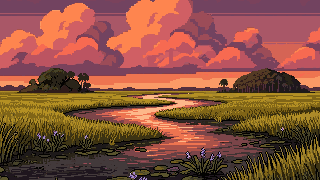
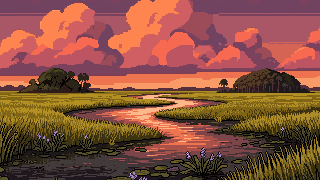
Support contact goblininksupport@gmail.com on the Terms and Refund Policy; landing fixes: alligator stays behind flowers and grasses, ripples in perspective, cloud artifacts redrawn, stray yellow and grey pixels removed

diff --git a/tools/remaster_landing.js b/tools/remaster_landing.js
@@ -21,12 +21,18 @@ const SCENES = {
     w: 320, h: 180,
     horizon: 93,   // the grass line: loose pixels are cleaned above it
     skyBottom: 82, // rows above this are sky (they drift); below is the distant treeline and the grass
+    // flat rectangular patches in the clouds to redraw as billows: [x0, y0, x1, y1, radius, passes]
+    // single pixels to correct by hand: [x, y, colour] ('auto' = the colour most of its neighbours have)
+    pixelFix: [[188, 93, 'auto'], [226, 79, '#fa9a66'], [227, 82, '#fa9a66'], // a speck in the horizon grass; yellow strays off the lone tree
+      [78, 77, 'auto'], [70, 78, 'auto'], [80, 84, 'auto'], [82, 87, 'auto'], [85, 87, 'auto']], // grey specks in the haze under the clouds
+    cloudFix: [[140, 42, 192, 70, 4, 4], [94, 16, 118, 50, 3, 3], [184, 10, 218, 44, 3, 2], [228, 36, 268, 56, 2, 2]],
     gator: { box: [45, 154, 124, 176], mode: 'colour' },
     water: { y0: 128, still: [] },
   },
   tall: {
     w: 180, h: 320,
     horizon: 160, skyBottom: 155,
+    cloudFix: [[106, 34, 134, 82, 3, 3], [128, 126, 165, 154, 2, 2]], // the streak down the big cumulus; crumbs by the pine
     gator: { box: [84, 254, 179, 304], mode: 'outline', thr: 22 },
     water: { y0: 200, still: [[116, 146, 180, 178], [0, 198, 66, 280]] }, // bushes, reeds
   },
@@ -132,6 +138,62 @@ function inpaintRows(img, mask, rows, ok = () => true) {
   }
 }
 
+function fixPixels(img, list) {
+  const { w, data: d } = img;
+  for (const [x, y, col] of list) {
+    const i = (y * w + x) * 4;
+    let rgb;
+    if (col === 'auto') { // the most common colour among its eight neighbours
+      const count = new Map();
+      for (const [dx, dy] of [[1, 0], [-1, 0], [0, 1], [0, -1], [1, 1], [-1, -1], [1, -1], [-1, 1]]) { const j = ((y + dy) * w + x + dx) * 4, k = d[j] + ',' + d[j + 1] + ',' + d[j + 2]; count.set(k, (count.get(k) || 0) + 1); }
+      rgb = [...count.entries()].sort((a, b) => b[1] - a[1])[0][0].split(',').map(Number);
+    } else rgb = [1, 3, 5].map(k => parseInt(col.slice(k, k + 2), 16));
+    d[i] = rgb[0]; d[i + 1] = rgb[1]; d[i + 2] = rgb[2];
+  }
+}
+
+// Majority filter inside a box: each pixel takes the most common colour within radius r (ties keep its own), for
+// `passes` rounds. Square corners round off and streaks thinner than about r vanish, so flat rectangular
+// patches become soft billows, using only colours already in the painting.
+function majority(img, x0, y0, x1, y1, r = 2, passes = 2) {
+  const { w, h, data: d } = img;
+  for (let pass = 0; pass < passes; pass++) {
+    const src = Uint8Array.from(d);
+    for (let y = Math.max(0, y0); y <= Math.min(h - 1, y1); y++) for (let x = Math.max(0, x0); x <= Math.min(w - 1, x1); x++) {
+      const count = new Map(); let best = null, bn = 0;
+      const own = ((y * w + x) * 4), ownKey = (src[own] << 16) | (src[own + 1] << 8) | src[own + 2];
+      for (let j = -r; j <= r; j++) for (let i = -r; i <= r; i++) {
+        if (i * i + j * j > r * r + r) continue;
+        const X = x + i, Y = y + j; if (X < 0 || Y < 0 || X >= w || Y >= h) continue;
+        const s = (Y * w + X) * 4, key = (src[s] << 16) | (src[s + 1] << 8) | src[s + 2];
+        const n = (count.get(key) || 0) + 1; count.set(key, n);
+        if (n > bn || (n === bn && key === ownKey)) { bn = n; best = key; }
+      }
+      if (best !== ownKey && bn > (count.get(ownKey) || 0)) { d[own] = best >> 16; d[own + 1] = (best >> 8) & 255; d[own + 2] = best & 255; }
+    }
+  }
+  // then little islands of one colour left inside the box (blobs and crumbs) melt into what surrounds them
+  const key = p => (d[p * 4] << 16) | (d[p * 4 + 1] << 8) | d[p * 4 + 2];
+  const inBox = (x, y) => x >= x0 && x <= x1 && y >= y0 && y <= y1 && x >= 0 && y >= 0 && x < w && y < h;
+  const seen = new Uint8Array(w * h);
+  for (let y = Math.max(0, y0); y <= Math.min(h - 1, y1); y++) for (let x = Math.max(0, x0); x <= Math.min(w - 1, x1); x++) {
+    const p0 = y * w + x; if (seen[p0]) continue;
+    const k = key(p0), piece = [p0], border = new Map(); seen[p0] = 1;
+    for (let q = 0; q < piece.length; q++) {
+      const p = piece[q], px = p % w, py = (p / w) | 0;
+      for (const [dx, dy] of [[1, 0], [-1, 0], [0, 1], [0, -1]]) {
+        const X = px + dx, Y = py + dy; if (X < 0 || Y < 0 || X >= w || Y >= h) continue;
+        const n = Y * w + X, kn = key(n);
+        if (kn === k) { if (!seen[n] && inBox(X, Y)) { seen[n] = 1; piece.push(n); } }
+        else border.set(kn, (border.get(kn) || 0) + 1);
+      }
+    }
+    if (piece.length >= 30 || !border.size) continue;
+    const to = [...border.entries()].sort((a, b) => b[1] - a[1])[0][0];
+    for (const p of piece) { d[p * 4] = to >> 16; d[p * 4 + 1] = (to >> 8) & 255; d[p * 4 + 2] = to & 255; }
+  }
+}
+
 // Make the sky loop on itself, so the clouds can drift left for ever: its right end overlaps its left start by OV
 // columns, joined along the path down the overlap where the two differ least (so the join hides in similar
 // colours). The result is W - OV columns wide and wraps around seamlessly; the first OV columns are the join.
@@ -205,6 +267,7 @@ function waterMask(img, S) {
 for (const [name, S] of Object.entries(SCENES)) {
   const plate = P.read(path.join(ORIG, 'landing', name + '-plate.png'));
   const still = P.read(path.join(ORIG, 'landing-' + name + '.png'));
+  for (const img of [plate, still]) fixPixels(img, S.pixelFix || []);
   const stillOrig = Uint8Array.from(still.data);
   const N = S.w * S.h;
 
@@ -254,6 +317,26 @@ for (const [name, S] of Object.entries(SCENES)) {
     if (l < 60 || (g > b + 10 && g >= r * 0.75 && l < 150)) crumbs[p] = 1;
   }
   inpaintRows(sky, crumbs, S.skyBottom, p => !crumbs[p]);
+  //    Redraw the clouds' flat, rectangular patches (generation artifacts) as rounded billows, then put the
+  //    redrawn sky back into the plate and the still painting too (but never over the still painting's birds).
+  for (const box of S.cloudFix || []) majority(sky, ...box);
+  // and no pixel may stand alone in the moving sky (one that matches none of its four neighbours twinkles as the
+  // clouds carry it along, like the grey specks under the clouds): it takes its neighbours' most common colour
+  for (let pass = 0; pass < 2; pass++) {
+    const src = Uint8Array.from(sky.data), list = [];
+    const df = (i, j) => Math.abs(src[i] - src[j]) + Math.abs(src[i + 1] - src[j + 1]) + Math.abs(src[i + 2] - src[j + 2]);
+    for (let y = 1; y < S.skyBottom - 1; y++) for (let x = 1; x < S.w - 1; x++) {
+      const i = (y * S.w + x) * 4; // (the sky filled in behind the islands too: it drifts into view)
+      if ([i - 4, i + 4, i - S.w * 4, i + S.w * 4].some(j => df(i, j) <= 40)) continue;
+      list.push([x, y, 'auto']);
+    }
+    fixPixels(sky, list);
+  }
+  for (let p = 0; p < S.w * S.skyBottom; p++) {
+    if (fol[p]) continue;
+    const i = p * 4, same = Math.abs(still.data[i] - plate.data[i]) + Math.abs(still.data[i + 1] - plate.data[i + 1]) + Math.abs(still.data[i + 2] - plate.data[i + 2]) < 30;
+    for (let k = 0; k < 3; k++) { if (same) still.data[i + k] = sky.data[i + k]; plate.data[i + k] = sky.data[i + k]; }
+  }
   //    Then made to loop; the image stays a screen wide (the loop carries on into the last columns). Below it, a
   //    mask of what moves (white = sky, black = a tree island in front, drawn from the plate). (Not in the alpha:
   //    browsers lose the colour of fully transparent pixels, and the sky behind the islands comes into view.)

diff --git a/public/scenery.js b/public/scenery.js
@@ -137,7 +137,7 @@
       horizon: 160, grassFrom: 228,
       sky: 'assets/landing/sky-tall.png', skyLoop: 153,
       gator: { src: 'assets/landing/gator-tall.png', sink: 0,
-        spots: [{ x: 84, y: 254 }, { x: 76, y: 257, flip: true }, { x: 92, y: 233 }] },
+        spots: [{ x: 84, y: 254 }, { x: 76, y: 257, flip: true }, { x: 86, y: 239 }] },
       still: [[116, 146, 180, 178], [0, 198, 66, 280]], // bushes, reeds
       fireflies: { n: 10, y0: 175, y1: 300 },
       flock: {
@@ -161,7 +161,7 @@
 
   // Change ART_V whenever the landing art is redrawn (and the ?v= on the still paintings in style.css), so every
   // browser fetches the new images at once instead of mixing in ones it saved earlier.
-  const ART_V = '20261115';
+  const ART_V = '20261116';
   const loadImage = src => new Promise((ok, fail) => { const im = new Image(); im.onload = () => ok(im); im.onerror = fail; im.src = src + '?v=' + ART_V; });
   // a small repeatable pseudo-random generator, so the sparkles and fireflies are the same every visit
   function rng(seed) { return () => { seed = (seed * 1664525 + 1013904223) >>> 0; return seed / 4294967296; }; }
@@ -226,11 +226,12 @@
 
   // The alligator at its spot, s of the way under: it darkens into the water and breaks up (ordered dither) as it
   // sinks, settling a little lower; the eyes go last and come up first. Its wake shows only while it's up.
-  function drawGator(o, W, H, G, spot, s, sink) {
+  // It only ever covers open water: flowers, grasses, reeds and lily pads in front of it stay in front.
+  function drawGator(o, W, H, water, G, spot, s, sink) {
     if (s >= 1) return;
     const fx = x => spot.flip ? G.w - 1 - x : x;
     const put = (X, Y, r, g, b, k) => { // k = how much of the water under it shows through
-      if (X < 0 || Y < 0 || X >= W || Y >= H) return;
+      if (X < 0 || Y < 0 || X >= W || Y >= H || !water[Y * W + X]) return;
       const j = (Y * W + X) * 4; o[j] = r + (o[j] - r) * k; o[j + 1] = g + (o[j + 1] - g) * k; o[j + 2] = b + (o[j + 2] - b) * k;
     };
     for (const p of G.wake) { const X = spot.x + fx(p.x), Y = spot.y + p.y; if (BAYER[(Y & 3) * 4 + (X & 3)] >= 1 - s * 2.2) continue; put(X, Y, p.r, p.g, p.b, 0.35); }
@@ -241,16 +242,21 @@
       put(X, Y, p.r, p.g, p.b, p.eye ? tint * 0.4 : tint);
     }
   }
-  // Rings of ripples spreading from where it went down or came up (flattened ellipses, on the water only).
-  function drawRings(o, W, H, water, cx, cy, age, size) {
+  // Rings of ripples spreading from where it went down or came up, seen in perspective: the further up the water
+  // (towards the horizon) the smaller and flatter they are, and each ring's far half is narrower and fainter than
+  // its near half. depth: 0 at the horizon, 1 at the bottom of the scene. On open water only.
+  function drawRings(o, W, H, water, cx, cy, age, size, depth) {
+    const scale = 0.45 + 0.65 * depth, flat = 0.1 + 0.2 * depth;
     for (const [delay, k] of [[0, 0.55], [0.7, 0.35]]) {
       const a = age - delay; if (a < 0 || a > 2.6) continue;
-      const rx = size * 0.25 + a * size * 0.22, ry = rx * 0.3, fade = k * (1 - a / 2.6);
+      const rx = (size * 0.25 + a * size * 0.22) * scale, ry = rx * flat, fade = k * (1 - a / 2.6);
       const n = Math.ceil(rx * 4);
       for (let i = 0; i < n; i++) {
-        const ang = (i / n) * TAU, X = Math.round(cx + Math.cos(ang) * rx), Y = Math.round(cy + Math.sin(ang) * ry);
+        const ang = (i / n) * TAU, far = Math.sin(ang) < 0;
+        const X = Math.round(cx + Math.cos(ang) * rx), Y = Math.round(cy + Math.sin(ang) * ry * (far ? 0.7 : 1.15));
         if (X < 0 || Y < 0 || X >= W || Y >= H || !water[Y * W + X]) continue;
-        const j = (Y * W + X) * 4; o[j] += (205 - o[j]) * fade; o[j + 1] += (215 - o[j + 1]) * fade; o[j + 2] += (225 - o[j + 2]) * fade;
+        const f = far ? fade * 0.6 : fade, j = (Y * W + X) * 4;
+        o[j] += (205 - o[j]) * f; o[j + 1] += (215 - o[j + 1]) * f; o[j + 2] += (225 - o[j + 2]) * f;
       }
     }
   }
@@ -274,10 +280,11 @@
     }
     // the alligator, the ripples where it went down or came up, and a few bubbles just before it surfaces
     const GT = S.gator, G = prep.gator, st = gatorState(T, GT.spots.length);
-    drawGator(o, W, H, G, GT.spots[st.spot], st.s, GT.sink);
+    drawGator(o, W, H, water, G, GT.spots[st.spot], st.s, GT.sink);
     st.rings.forEach((t0, i) => {
       const sp = GT.spots[st.ringSpots[i]];
-      drawRings(o, W, H, water, sp.x + G.w / 2, sp.y + G.h * 0.62, T - t0, G.w);
+      const cy = sp.y + G.h * 0.62;
+      drawRings(o, W, H, water, sp.x + G.w / 2, cy, T - t0, G.w, Math.max(0, Math.min(1, (cy - S.horizon) / (H - S.horizon))));
     });
     if (st.bubbling) {
       const sp = GT.spots[st.next], ex = sp.x + (sp.flip ? G.w - 1 - G.eye[0] : G.eye[0]), ey = sp.y + G.eye[1];

diff --git a/public/style.css b/public/style.css
@@ -78,9 +78,9 @@ input.field:focus { outline: 3px solid var(--brass); }
 /* landing, lobby and loading screens sit on a pixel-art Everglades backdrop (made with PixelLab) */
 .landing {
   height: 100dvh; display: grid; place-items: center; padding: 16px; overflow-y: auto; position: relative;
-  background: #2a1830 url('assets/landing-wide.png?v=20261115') center 70% / cover no-repeat; image-rendering: pixelated;
+  background: #2a1830 url('assets/landing-wide.png?v=20261116') center 70% / cover no-repeat; image-rendering: pixelated;
 }
-@media (orientation: portrait) { .landing { background-image: url('assets/landing-tall.png?v=20261115'); background-position: center bottom; } }
+@media (orientation: portrait) { .landing { background-image: url('assets/landing-tall.png?v=20261116'); background-position: center bottom; } }
 /* the animated backdrop (scenery.js) sits behind the page; once it is running the still painting steps aside */
 #scenery { position: fixed; inset: 0; width: 100%; height: 100%; object-fit: cover; object-position: center 70%; image-rendering: pixelated; display: none; z-index: 0; pointer-events: none; }
 .scenery-live #scenery { display: block; }
@@ -94,8 +94,8 @@ input.field:focus { outline: 3px solid var(--brass); }
 /* scene-only view: everything but the backdrop and the eye steps away */
 .scene-only #app, .scene-only #peek, .scene-only #toast, .scene-only #bubbles { visibility: hidden; }
 /* without the animation (reduce motion), keep the still painting on screen */
-html.scene-only:not(.scenery-live) body { background: #2a1830 url('assets/landing-wide.png?v=20261115') center 70% / cover no-repeat; image-rendering: pixelated; }
-@media (orientation: portrait) { html.scene-only:not(.scenery-live) body { background-image: url('assets/landing-tall.png?v=20261115'); background-position: center bottom; } }
+html.scene-only:not(.scenery-live) body { background: #2a1830 url('assets/landing-wide.png?v=20261116') center 70% / cover no-repeat; image-rendering: pixelated; }
+@media (orientation: portrait) { html.scene-only:not(.scenery-live) body { background-image: url('assets/landing-tall.png?v=20261116'); background-position: center bottom; } }
 .landing::before { /* darken toward the bottom so the panels read well */
   content: ''; position: fixed; inset: 0; pointer-events: none;
   background: linear-gradient(180deg, rgba(25, 12, 30, .05) 0%, rgba(25, 12, 30, .25) 55%, rgba(20, 10, 18, .6) 100%);

diff --git a/public/refunds.html b/public/refunds.html
@@ -39,7 +39,7 @@
   <p>Please contact us before disputing a charge with your bank. We can usually fix problems faster. If a payment is disputed, we may remove the Eco-bucks it bought and pause the account while the dispute is open.</p>
 
   <h2>How to ask for a refund</h2>
-  <p>Contact us at <span data-contact>the support contact shown on your Stripe receipt email</span>. Include your username, the date of the purchase, and the receipt or the last 4 digits of the card you used. We aim to reply within 3 business days.</p>
+  <p>Contact us at <span data-contact><a href="mailto:goblininksupport@gmail.com">goblininksupport@gmail.com</a></span>. Include your username, the date of the purchase, and the receipt or the last 4 digits of the card you used. We aim to reply within 3 business days.</p>
 
   <footer>See also our <a href="terms.html">Terms of Service</a>.</footer>
 </main>

diff --git a/public/terms.html b/public/terms.html
@@ -68,7 +68,7 @@
   <p>We may update these terms. If we do, we'll change the date at the top of this page. If you keep playing after an update, you accept the new terms.</p>
 
   <h2>11. Contact</h2>
-  <p>Questions? Contact us at <span data-contact>the support contact shown on your Stripe receipt email</span>.</p>
+  <p>Questions? Contact us at <span data-contact><a href="mailto:goblininksupport@gmail.com">goblininksupport@gmail.com</a></span>.</p>
 
   <footer>See also our <a href="refunds.html">Refund Policy</a>.</footer>
 </main>

diff --git a/public/legal.js b/public/legal.js
@@ -1,5 +1,5 @@
-// Fills in the support contact on the legal pages (SUPPORT_EMAIL on the server). Without it, the pages point
-// players to the support contact shown on their Stripe receipt.
+// The legal pages name the support contact (goblininksupport@gmail.com) in their HTML. Setting SUPPORT_EMAIL on the
+// server replaces it with another address without editing the pages.
 fetch('/api/config', { method: 'POST', headers: { 'Content-Type': 'application/json' }, body: '{}' })
   .then(r => r.json())
   .then(c => {

diff --git a/README.md b/README.md
@@ -118,7 +118,7 @@ Everyone signs in before they sit down at a table. An account keeps your **gamer
 2. Open **Developers > Webhooks > Add endpoint**. Set the URL to `https://<your-site>/api/stripe/webhook` and choose the events `checkout.session.completed`, `checkout.session.async_payment_succeeded`, `charge.refunded`, `charge.dispute.created` and `charge.dispute.closed`. Refunds and disputes take the Eco-bucks back automatically, and they're restored if you win a dispute. Copy the endpoint's **signing secret** (`whsec_...`).
 3. In Render, under **Environment**, add `STRIPE_SECRET_KEY` and `STRIPE_WEBHOOK_SECRET` (and optionally `PUBLIC_URL`, your site's address). Without `STRIPE_SECRET_KEY`, the tab is hidden.
 4. Test keys and live keys each need their own webhook endpoint and secret.
-5. The **Terms of Service** (`public/terms.html`) and **Refund Policy** (`public/refunds.html`) are linked from the home page and the store. Set `SUPPORT_EMAIL` in Render to show your support address on them. Without it, they point to the contact on the Stripe receipt. In Stripe, under **Settings > Business > Public details**, add the two page URLs and your support email.
+5. The **Terms of Service** (`public/terms.html`) and **Refund Policy** (`public/refunds.html`) are linked from the home page and the store. Their support contact for payments is goblininksupport@gmail.com, written into both pages (setting `SUPPORT_EMAIL` in Render replaces it with another address). In Stripe, under **Settings > Business > Public details**, add the two page URLs and your support email.
 
 **Splash effects (250 EB each):** the store's **Splash effects** tab sells effects that burst from a card when its owner plays it, and everyone at the table sees them. The first two are **Sparkle** (golden pixel stars) and **Water splash** (a crown of droplets and a ripple). Each one can be previewed in the store. A player uses one at a time, picked like a title. The effects are listed in `SPLASHES` in `public/data.js` and drawn by `playSplash()` in `public/client.js`. They're skipped for players with reduced motion turned on.
 
